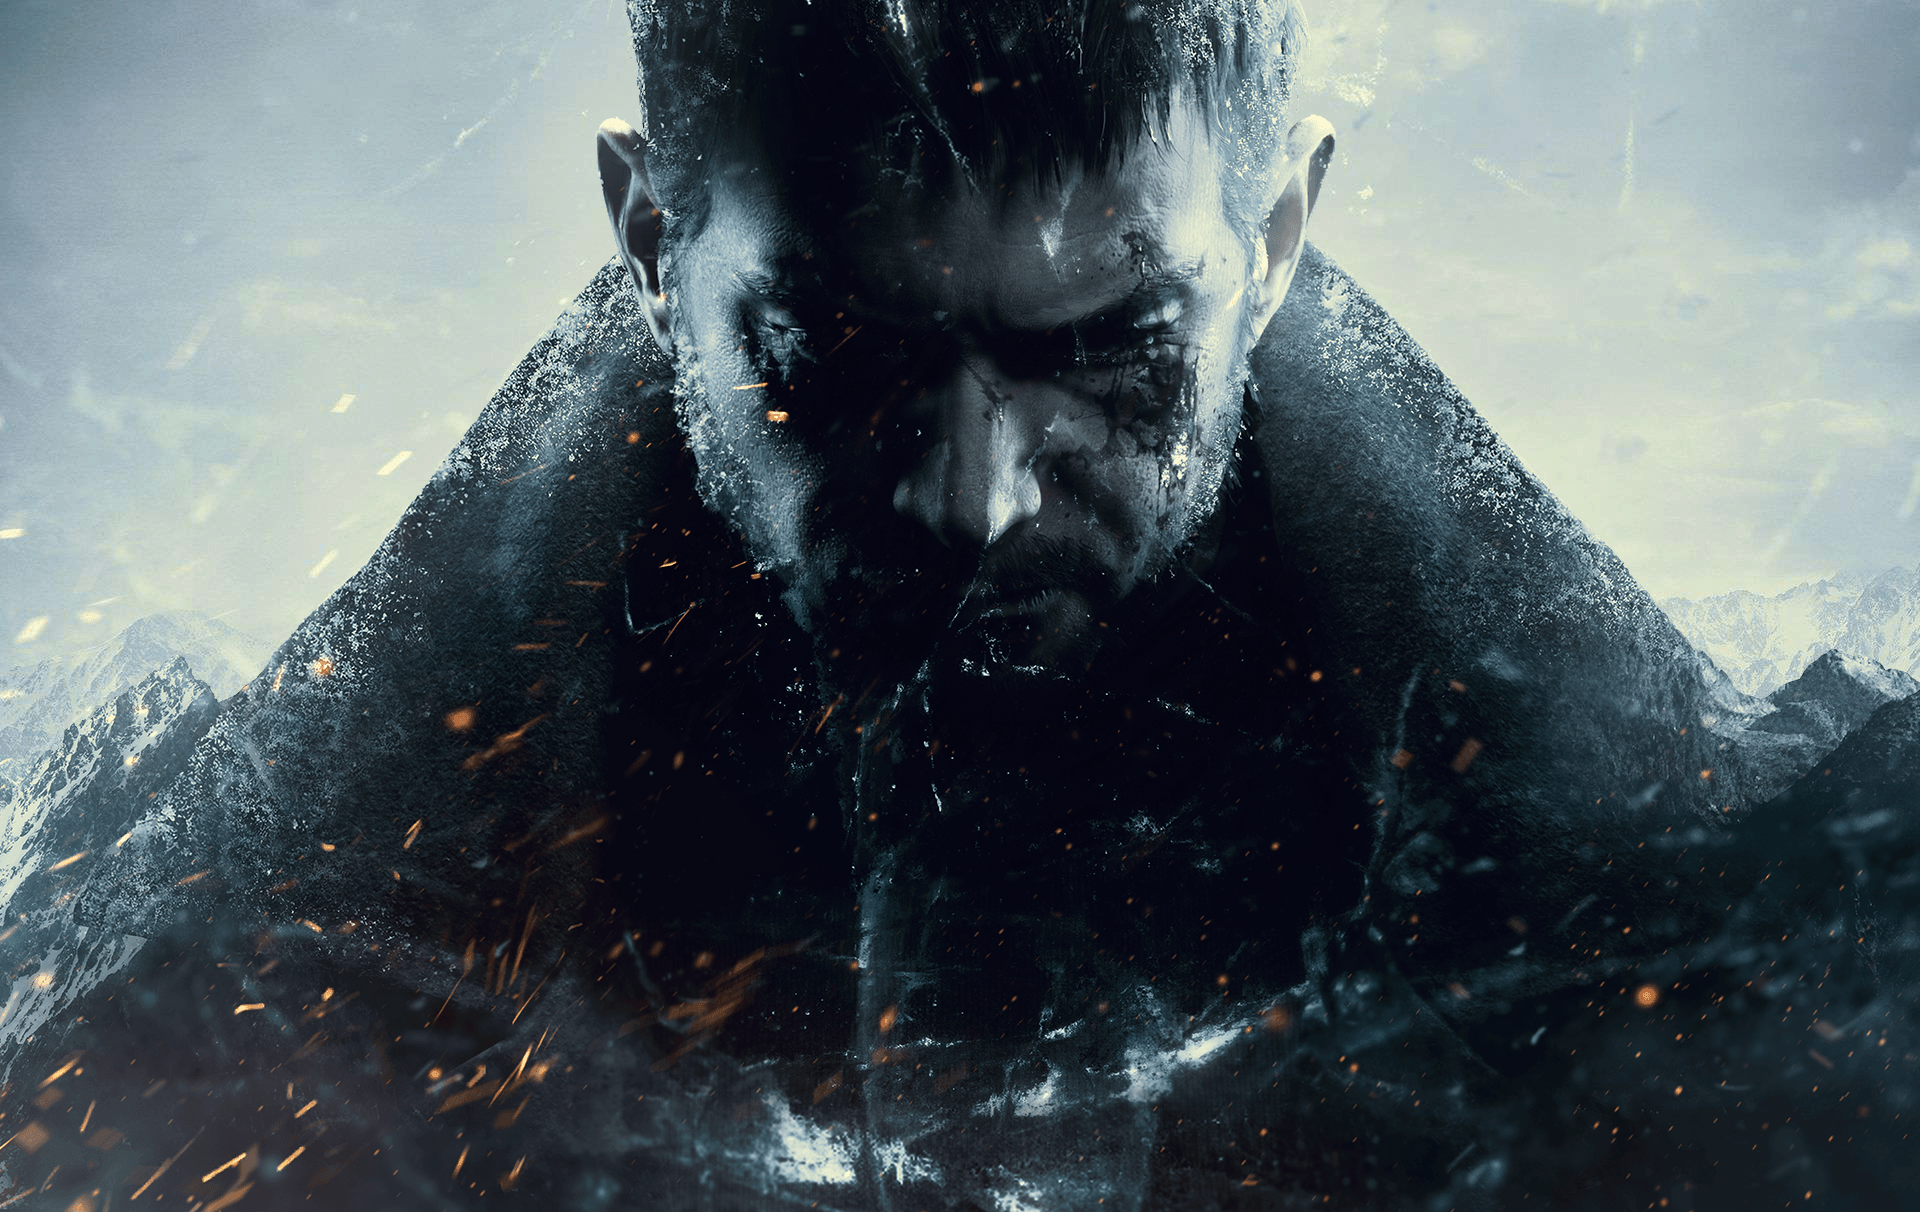
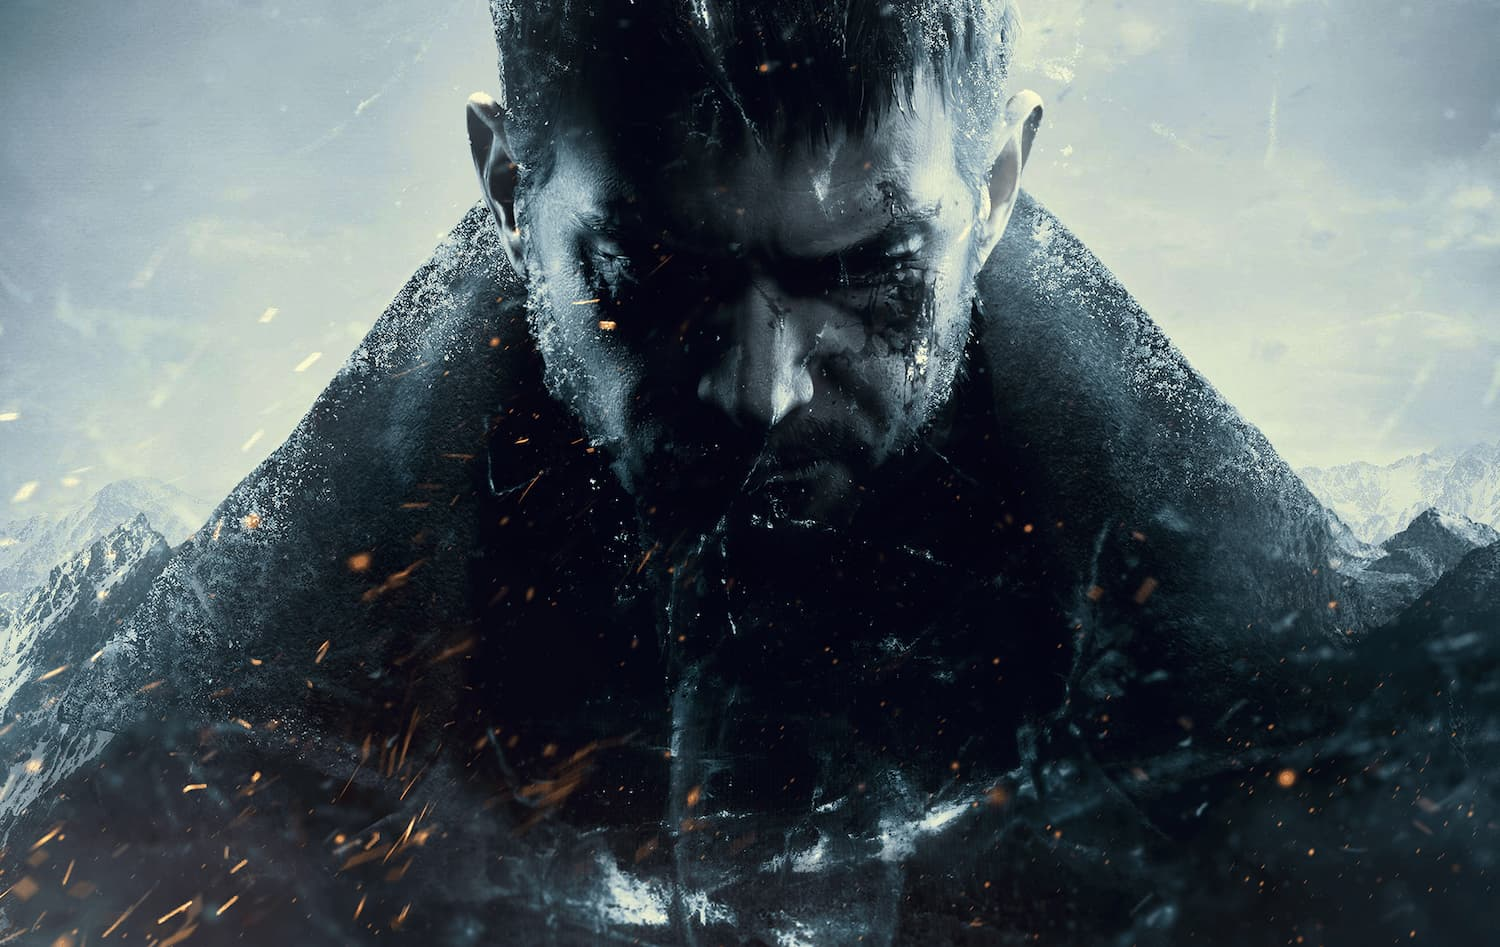
Working with a mobile first approach, changed carousel img, removed story grid for mobile and gave the footer a div with a its own bg color

diff --git a/public/css/main.css b/public/css/main.css
@@ -1,9 +1,9 @@
 body {
-    background-color: #ffffff;
+    background-color: #EDEDED;
 }
 
 h1, h2, h3, label, button, a {
-    font-family: 'Fugaz One', cursive;
+    font-family: 'Gill Sans', 'Gill Sans MT', Calibri, 'Trebuchet MS', sans-serif;
     color: #17141F;
     padding-top: 2.5px;
 }
@@ -11,7 +11,11 @@ h1, h2, h3, label, button, a {
 h4 {
     text-align: center;
     color: black;
-    font-family: 'Fugaz One', cursive;
+    font-family: 'Gill Sans', 'Gill Sans MT', Calibri, 'Trebuchet MS', sans-serif;
+}
+
+hr {
+    margin-top: 0;
 }
 
 .container {
@@ -28,11 +32,10 @@ h4 {
 .carousel-inner img {
     min-width: 100%;
     height: fit-content;
-    object-fit: cover;
+    object-fit: cover
 }
 
 .nav-item {
-    margin-left: 13%;
     font-size: 1.8em;
     font-weight: 500;
 }
@@ -42,15 +45,15 @@ h4 {
 }
 
 .nav-link {
-    font-family: 'Fugaz One', cursive;
+    font-family: 'Gill Sans', 'Gill Sans MT', Calibri, 'Trebuchet MS', sans-serif;
 }
 
 .navbar a img{
-    margin-left: 50%;
+    margin-left: 70px;
 }
 
-.navbar-collapse  {
-    margin-left: 5%;
+.nav-toggler-icon {
+    margin-right: 500px;
 }
 
 .layout-container {
@@ -93,6 +96,10 @@ h4 {
     bottom: 0;
 }
 
+.dropdown {
+    display: none;
+}
+
 #description {
     height: 400px;
     width: 400px;
@@ -101,21 +108,13 @@ h4 {
 
 .top-stories {
     background-color: #EDEDED;
-    padding: 1.75% 5.6%;
+    padding: 2.52% 5.6%;
 }
 
-.stories {
-    display: grid;
-    grid-template-rows: 1fr;
-    /* grid-template-columns: repeat(5, 1fr); */
-    grid-template-columns: repeat(3, 1fr);
-}
-
-.story-divs {
-    float: left;
-    width: 82%;
-    padding-right: 2%;
-    padding-left: 2%;
+.top-stories h1 {
+    text-align: center;
+    text-transform: capitalize;
+    margin-bottom: 0;
 }
 
 .story-divs img {
@@ -125,4 +124,14 @@ h4 {
 
 .story-divs h4 {
     margin-top: 10px;
+}
+
+.footer {
+    color: #ffffff;
+    background-color: #1E1E1E;
+}
+
+.footer p {
+    margin: 0;
+    padding: 0;
 }

diff --git a/routes/index.js b/routes/index.js
@@ -23,7 +23,7 @@ const { ensureAuthenticated} = require('../config/auth');
         })
         
         router.get('/about', (req, res) => {
-res.render('about.ejs')
-})
+        res.render('about.ejs')
+        })
 
 module.exports = router
